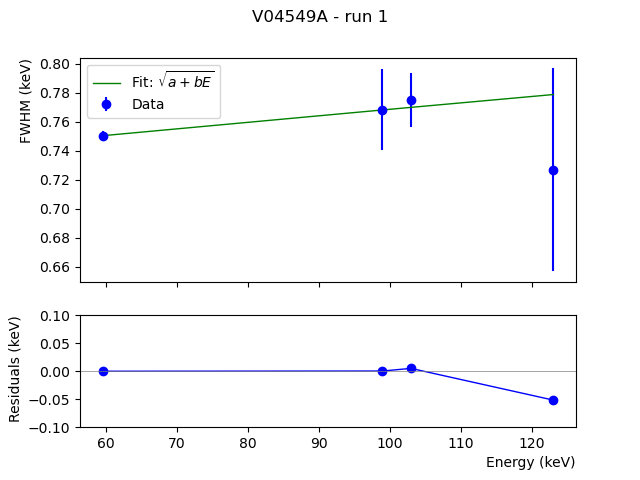
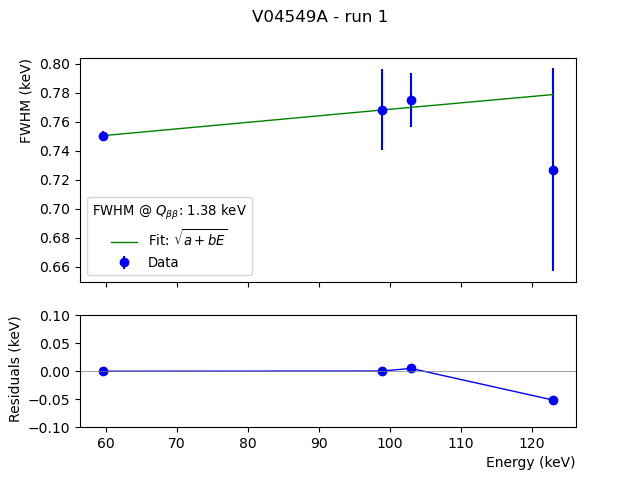
updated calibration

Changed region(s): [[0.125, 0.4062, 0.4062, 0.5312], [0.125, 0.125, 0.3438, 0.25], [0.1875, 0.5, 0.2812, 0.5625]]

diff --git a/src/calibration.py b/src/calibration.py
@@ -57,8 +57,8 @@ def load_energy_data(data_path, energy_filter, cuts, run, plot_hist = False, sig
     if plot_hist == True:
         plt.hist(energy_filter_data, bins=5000, histtype="step")
         plt.xlim(0,5000)
-        plt.xlabel(energy_filter,     ha='right', x=1)
-        plt.ylabel("Counts",     ha='right', y=1)
+        plt.xlabel(energy_filter, ha='right', x=1)
+        plt.ylabel("Counts",ha='right', y=1)
         plt.yscale('log')
         plt.tight_layout()
         plt.show()
@@ -72,8 +72,140 @@ def fwhm_slope(x, m0, m1, m2):
     """
     return np.sqrt(m0 + m1*x +(m2*(x**2)))
 
+def invert_linear(pars):
+    "invert y=a*x+b where pars=[a,b] and return new_pars=[a2,b2]"
+    # x = y/a -b/a
+    a,b = pars[0], pars[1]
+    a2, b2 = 1/a, -b/a
+    inv_pars = [a2,b2]
+    return inv_pars
 
-def perform_calibration(detector, source, data_path, energy_filter, cuts, run):
+def plotCalibratedEnergy(ecal_pass, ecal_cut, xlo, xhi, binwidth, plot_title=None,plotPath=None):
+    """ Plot the calibrated energy hist
+        args: 
+        - ecal_pass: calibrated energies passing data cuts
+        - ecal_cut: calibrated energies failing data cuts
+        - xlo: min x value, 0
+        - xhi: max x value, i.e. 450 keV
+        - binwidth: e.g. 0.1 keV
+    """
+    nb = int((xhi-xlo)/binwidth)
+    hist_pass, bin_edges = np.histogram(ecal_pass, range=(xlo, xhi), bins=nb)
+    bins_pass = pgh.get_bin_centers(bin_edges)
+    hist_cut, bin_edges = np.histogram(ecal_cut, range=(xlo, xhi), bins=nb)
+    bins_cut = pgh.get_bin_centers(bin_edges)
+    plt.plot(bins_pass, hist_pass, label='QC pass', lw=1, c='b')
+    plt.plot(bins_cut,  hist_cut,  label='QC fail', lw=1, c='r')
+    plt.plot(bins_cut,  hist_cut+hist_pass,  label='no QC', lw=1)
+
+    plt.xlabel("Energy (keV)", ha='right', x=1)
+    plt.ylabel("Counts / "+str(binwidth)+" keV", ha='right', y=1)
+    plt.title(plot_title)
+    plt.yscale('log')
+    plt.tight_layout()
+    plt.legend(loc='upper right')
+
+    if plotPath is not None:
+        plt.savefig(plotPath)
+
+
+def plotCalibrationCurve(calResults,xlo,xhi,plot_title=None,plotPath=None,residuals="raw"):
+    """ Plot the calibration curve with residuals
+        args: 
+        - calResults: array from calibration routine
+        - xlo: min x value, 0
+        - xhi: max x value, i.e. 450 keV
+        - residuals: "raw" = data-fit, "error" = data-fit/error(data)
+    """
+    pk_pars = calResults['pk_pars']
+    uncalE_mus = np.array([pars[1] for pars in pk_pars]).astype(float)
+    pk_covs = calResults['pk_covs']
+    uncalE_mus_err = np.array([np.sqrt(cov[1][1]) for cov in pk_covs]).astype(float)
+    truthE = np.array(calResults["got_peaks_keV"])
+    pk_cal_pars = np.array(calResults["pk_cal_pars"]) #pars from cal to uncal
+
+    fig, (ax1, ax2) = plt.subplots(2, 1, sharex=True, gridspec_kw={"height_ratios":[2,1]})
+    ax1.errorbar(truthE,uncalE_mus,yerr=uncalE_mus_err, marker='o',linestyle='none', c='b', label="Data")
+    fit = pgp.poly(truthE, pk_cal_pars)
+    ax1.plot(truthE,fit,lw=1, c='g', linestyle="-", label=R"Linear fit")
+    ax1.set_ylabel("Uncalibrated Energy (ADC)", ha='right', y=1, fontsize=10)
+    ax1.legend()
+
+    if residuals == "raw":
+        residuals = uncalE_mus-fit
+        # residual_lbl = "Data-Fit (ADC)"
+        residual_lbl = "Residuals (ADC)"
+    elif residuals == "error":
+        residuals = (uncalE_mus-fit)/uncalE_mus_err
+        residual_lbl = r"$(Data-Fit)/\sigma_{Data}$"
+    ax2.plot(truthE,residuals, marker='o', lw=1, c='b')
+    ax2.set_ylabel(residual_lbl, ha='right', y=1, fontsize=10)
+    ax2.axhline(0, 0, xhi, color="grey", linestyle="-", linewidth=0.5)
+    ax2.set_xlabel("Calibrated Energy (keV)", ha='right', x=1, fontsize=10)
+    fig.suptitle(plot_title)
+
+    if plotPath is not None:
+        plt.savefig(plotPath)
+
+def plotResolutionCurve(calResults, calPars, xlo, xhi, plot_title=None, plotPath=None, residuals="raw"):
+    """ Plot the resolution curve with residuals
+        returns: 
+        - fit_pars: resolution sqrt fit parameters
+        args: 
+        - calResults: array from calibration routine
+        - calPars: linear calibration pars from calibration routine
+        - xlo: min x value, 0
+        - xhi: max x value, i.e. 450 keV
+        - residuals: "raw" = data-fit
+    """
+    fitted_peaks = calResults['fitted_keV']
+    pk_pars      = calResults['pk_pars']
+    mus          = np.array([pars[1] for pars in pk_pars]).astype(float)
+    fwhms        = np.array([pars[2] for pars in pk_pars]).astype(float)*calPars[0]*2.*math.sqrt(2.*math.log(2.))
+    pk_covs      = calResults['pk_covs']
+    dfwhms       = np.array([], dtype=np.float32)
+    for i, covsi in enumerate(pk_covs):
+        covsi    = np.asarray(covsi, dtype=float)
+        parsigsi = np.sqrt(covsi.diagonal())
+        dfwhms   = np.append(dfwhms,parsigsi[2]*calPars[0]*2.*math.sqrt(2.*math.log(2.)))
+    fwhm_peaks   = np.array([], dtype=np.float32)
+    for i,peak in enumerate(fitted_peaks):
+        fwhm_peaks = np.append(fwhm_peaks,peak)
+
+    param_guess  = [0.2,0.001,0.000001]
+    param_bounds = (0, [10., 1. ,0.1])
+    fit_pars, fit_covs = curve_fit(fwhm_slope, fwhm_peaks, fwhms, sigma=dfwhms, p0=param_guess, bounds=param_bounds)
+    print('FWHM curve fit: ',fit_pars)
+    fit_vals = fwhm_slope(fwhm_peaks,fit_pars[0],fit_pars[1],fit_pars[2])
+    print('FWHM fit values: ',fit_vals)
+    fit_qbb = fwhm_slope(2039.0,fit_pars[0],fit_pars[1],fit_pars[2])
+    print('FWHM energy resolution at Qbb: %1.2f keV' % fit_qbb)
+
+    fig, (ax1, ax2) = plt.subplots(2, 1, sharex=True, gridspec_kw={"height_ratios":[2,1]})
+    ax1.errorbar(fwhm_peaks,fwhms,yerr=dfwhms, marker='o',linestyle='none', c='b', label="Data")
+    ax1.plot(fwhm_peaks,fit_vals,lw=1, c='g', linestyle="-", label=R"Fit: $\sqrt{a+bE}$")
+    ax1.set_ylabel("FWHM (keV)", ha='right', y=1, fontsize=10)
+    fit_info = [r"FWHM @ $Q_{\beta\beta}$: %1.2f keV"%fit_qbb]
+    ax1.legend(title="\n".join(fit_info),title_fontsize=9.5,prop={'size': 9.5})
+
+    if residuals == "raw":
+        residuals = (fwhms-fit_vals)
+        # residual_lbl = "Data-Fit (keV)"
+        residual_lbl = "Residuals (keV)"
+    ax2.plot(fwhm_peaks,residuals, marker='o', lw=1, c='b')
+    ax2.set_xlabel("Energy (keV)", ha='right', x=1, fontsize=10)
+    ax2.set_ylabel(residual_lbl, ha='right', y=1, fontsize=10)
+    ax2.set_ylim([-0.1,0.1])
+    ax2.axhline(0, 0, xhi, color="grey", linestyle="-", linewidth=0.5)
+
+    fig.suptitle(plot_title)
+
+    if plotPath is not None:
+        plt.savefig(plotPath)
+
+    return fit_pars
+
+def perform_calibration(detector, source, data_path, energy_filter, cuts, run, plot_calibration_curve=False):
 
     """
     Perform energy calibration on data spectra
@@ -101,15 +233,13 @@ def perform_calibration(detector, source, data_path, energy_filter, cuts, run):
     if source == "Ba133":
         glines    = [80.9979, 160.61, 223.24, 276.40, 302.85, 356.01, 383.85] # gamma lines used for calibration
         range_keV = [(1,1),(1.5,1.5),(2.5,2.5),(2.5,2.5),(3,3),(3,3),(3,3)] # side bands width
-
-        guess = 383/(energy_filter_data.quantile(0.9))
-
         funcs = [pgp.gauss_step,pgp.gauss_step,pgp.gauss_step,pgp.gauss_step,pgp.gauss_step,pgp.gauss_step,pgp.gauss_step]
+        guess = 383/(energy_filter_data.quantile(0.9))
 
     elif source == "Am241_HS1" or source == "Am241_HS6":
         glines=[59.5409, 98.97, 102.98 ,123.05]
         range_keV=[(3., 3.),(1.5,1.5),(1.5,1.5),(1.5,1.5)]
-
+        funcs = [pgp.gauss_step,pgp.gauss_step,pgp.gauss_step,pgp.gauss_step,pgp.gauss_step,pgp.gauss_step,pgp.gauss_step,pgp.gauss_step,pgp.gauss_step]
         if detector=='V02160A' or detector=='V05268A':
             guess= 0.1#0.045#0.1 #V02160A #0.057   0.032 if V07647A  #0.065 7298B
         elif detector=='V05266A'or detector=="B00035A":
@@ -124,9 +254,6 @@ def perform_calibration(detector, source, data_path, energy_filter, cuts, run):
         #    guess=0.1
         else:
             guess=0.045
-
-        funcs = [pgp.gauss_step,pgp.gauss_step,pgp.gauss_step,pgp.gauss_step,pgp.gauss_step,pgp.gauss_step,pgp.gauss_step,pgp.gauss_step,pgp.gauss_step]
-
 
     print("Find peaks and compute calibration curve...",end=' ')
 
@@ -148,86 +275,42 @@ def perform_calibration(detector, source, data_path, energy_filter, cuts, run):
         ecal_cut = failed_cuts*m+c
         calib_pars=False
 
-    #======Plot calibrated energy=======
-
-    xpb = 0.1
+    #======Plots Info ================
+    binwidth = 0.1
     xlo = 0
     xhi = 450 if source == "Ba133" else 130
-
-    nb = int((xhi-xlo)/xpb)
-    hist_pass, bin_edges = np.histogram(ecal_pass, range=(xlo, xhi), bins=nb)
-    bins_pass = pgh.get_bin_centers(bin_edges)
-    hist_cut, bin_edges = np.histogram(ecal_cut, range=(xlo, xhi), bins=nb)
-    bins_cut = pgh.get_bin_centers(bin_edges)
+    nb = int((xhi-xlo)/binwidth)
     plot_title = detector+' - run '+str(run)
-    plt.plot(bins_pass, hist_pass, label='QC pass', lw=1, c='b')
-    plt.plot(bins_cut,  hist_cut,  label='QC fail', lw=1, c='r')
-    plt.plot(bins_cut,  hist_cut+hist_pass,  label='no QC', lw=1)
 
-    plt.xlabel("Energy (keV)",     ha='right', x=1)
-    plt.ylabel("Counts / "+str(xpb)+" keV",     ha='right', y=1)
-    plt.title(plot_title)
-    plt.yscale('log')
-    plt.tight_layout()
-    plt.legend(loc='upper right')
-
+    #======Plot calibrated energy=======
     if cuts == True:
-        plt.savefig(outputFolder+"plots/calibrated_energy_"+energy_filter+"_run"+str(run)+"_cuts.png")
+        plotPath = outputFolder+"plots/calibrated_energy_"+energy_filter+"_run"+str(run)+"_cuts.png"
     else:
-        plt.savefig(outputFolder+"plots/calibrated_energy_"+energy_filter+"_run"+str(run)+"_nocuts.png")
+       plotPath = outputFolder+"plots/calibrated_energy_"+energy_filter+"_run"+str(run)+"_nocuts.png"
 
-    plt.close("all")
-    #=========Plot Calibration Curve===========
+    plotCalibratedEnergy(ecal_pass, ecal_cut, xlo, xhi, binwidth, plot_title=plot_title,plotPath=plotPath)
+
+    #======Plot calibration curve=======
+    if plot_calibration_curve == True:
+        if cuts == True:
+            plotPath = outputFolder+"plots/calibration_curve_"+energy_filter+"_run"+str(run)+"_cuts.png"
+        else:
+            plotPath = outputFolder+"plots/calibration_curve_"+energy_filter+"_run"+str(run)+"_nocuts.png"
+
+        plotCalibrationCurve(results,xlo,xhi,plot_title=plot_title,plotPath=plotPath)
+
+
+    #=========Plot Resolution Curve and save all coefficients ===========
 
     if calib_pars == True:
 
-        fitted_peaks = results['fitted_keV']
-        pk_pars      = results['pk_pars']
-        mus          = np.array([pars[1] for pars in pk_pars]).astype(float)
-        fwhms        = np.array([pars[2] for pars in pk_pars]).astype(float)*pars[0]*2.*math.sqrt(2.*math.log(2.))
-        pk_covs      = results['pk_covs']
-        dfwhms       = np.array([], dtype=np.float32)
-        for i, covsi in enumerate(pk_covs):
-            covsi    = np.asarray(covsi, dtype=float)
-            parsigsi = np.sqrt(covsi.diagonal())
-            dfwhms   = np.append(dfwhms,parsigsi[2]*pars[0]*2.*math.sqrt(2.*math.log(2.)))
-        fwhm_peaks   = np.array([], dtype=np.float32)
-        for i,peak in enumerate(fitted_peaks):
-            fwhm_peaks = np.append(fwhm_peaks,peak)
-
-        param_guess  = [0.2,0.001,0.000001]
-        param_bounds = (0, [10., 1. ,0.1])
-        fit_pars, fit_covs = curve_fit(fwhm_slope, fwhm_peaks, fwhms, sigma=dfwhms, p0=param_guess, bounds=param_bounds)
-        print('FWHM curve fit: ',fit_pars)
-        fit_vals = fwhm_slope(fwhm_peaks,fit_pars[0],fit_pars[1],fit_pars[2])
-        print('FWHM fit values: ',fit_vals)
-        fit_qbb = fwhm_slope(2039.0,fit_pars[0],fit_pars[1],fit_pars[2])
-        print('FWHM energy resolution at Qbb: %1.2f keV' % fit_qbb)
-
-        # fig, (ax1, ax2) = plt.subplots(2, 1, constrained_layout=True, sharex=True)
-        fig, (ax1, ax2) = plt.subplots(2, 1, sharex=True, gridspec_kw={"height_ratios":[2,1]})
-        ax1.errorbar(fwhm_peaks,fwhms,yerr=dfwhms, marker='o',linestyle='none', c='b', label="Data")
-        ax1.plot(fwhm_peaks,fit_vals,lw=1, c='g', linestyle="-", label=R"Fit: $\sqrt{a+bE}$")
-        ax1.set_ylabel("FWHM (keV)", ha='right', y=1)
-        ax1.legend()
-
-        print(fwhm_peaks)
-        residuals = (fwhms-fit_vals)
-        # residuals = (np.array(fitted_peaks)-np.array(fitted_peaks,pgp.poly(mus, pars)))/np.array(fitted_peaks,pgp.poly(mus, pars))
-        ax2.plot(fwhm_peaks,residuals, marker='o', lw=1, c='b')
-        ax2.set_xlabel("Energy (keV)",    ha='right', x=1)
-        ax2.set_ylabel("Residuals (keV)", ha='right', y=1)
-        ax2.set_ylim([-0.1,0.1])
-        ax2.axhline(0, 0, xhi, color="grey", linestyle="-", linewidth=0.5)
-
-
-        fig.suptitle(plot_title)
-
         if cuts == False:
-            plt.savefig(outputFolder+"plots/resolution_curve_"+energy_filter+"_run"+str(run)+"_nocuts.png")
+            plotPath = outputFolder+"plots/resolution_curve_"+energy_filter+"_run"+str(run)+"_nocuts.png"
         else:
-            plt.savefig(outputFolder+"plots/resolution_curve_"+energy_filter+"_run"+str(run)+"_cuts.png")
+            plotPath = outputFolder+"plots/resolution_curve_"+energy_filter+"_run"+str(run)+"_cuts.png"
         
+        fit_pars = plotResolutionCurve(results, pars, xlo, xhi, plot_title=plot_title, plotPath=plotPath)
+
         #=========Save Calibration Coefficients==========
         dict = {energy_filter: {"resolution": list(fit_pars), "calibration": list(pars)}}
         if cuts == False:
@@ -237,7 +320,6 @@ def perform_calibration(detector, source, data_path, energy_filter, cuts, run):
             with open(outputFolder+"calibration_run"+str(run)+"_cuts.json", "w") as outfile:
                 json.dump(dict, outfile, indent=4)
 
-    plt.show()
     plt.close("all")
     print("done")
     print("")

diff --git a/processDetectors.py b/processDetectors.py
@@ -19,7 +19,7 @@ def main():
     # EDIT PROCESSING CONFIG BELOW
     #====================================================
     order_list = [2,4,5,7,8,9] #List of orders to process
-    source = "Am241_HS1" #"Ba133", "Am241_HS1" or "Am241_HS6"
+    source = "Ba133" #"Ba133", "Am241_HS1" or "Am241_HS6"
     energy_filter="cuspEmax_ctc"
     cuts=True
     #-----------------------------------------------------
@@ -55,9 +55,8 @@ def main():
 
         for ind, detector in enumerate(detectors):
 
-            if detector != "V04549A": ##or detector != "V08682B" or detector != "V09724A":
-            # # if detector == "V07646A" or detector == "V07302A":
-                continue
+            # if detector != "V04549A": ##or detector != "V08682B" or detector != "V09724A":
+            #     continue
             print("")
             print("detector: ", detector)
 
@@ -72,7 +71,7 @@ def main():
 
                 detector_name = "I"+detector[1:] if order == 2 else detector  
                 data_path = data_folder_ICPC+detector_name+"/tier2/"+source_data+"_top_dlt/" if detector_type == "ICPC" else data_folder_BEGe+detector_name+"/tier2/"+source_data+"_top_dlt/"
-                perform_calibration(detector, source, data_path, energy_filter, cuts, run)
+                perform_calibration(detector, source, data_path, energy_filter, cuts, run, plot_calibration_curve=True)
 
             #========Gamma line count - DATA==========
             if Gamma_line_count_data == True:
